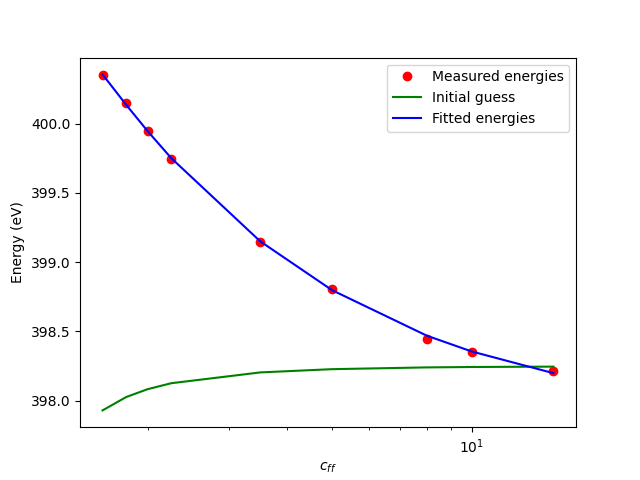
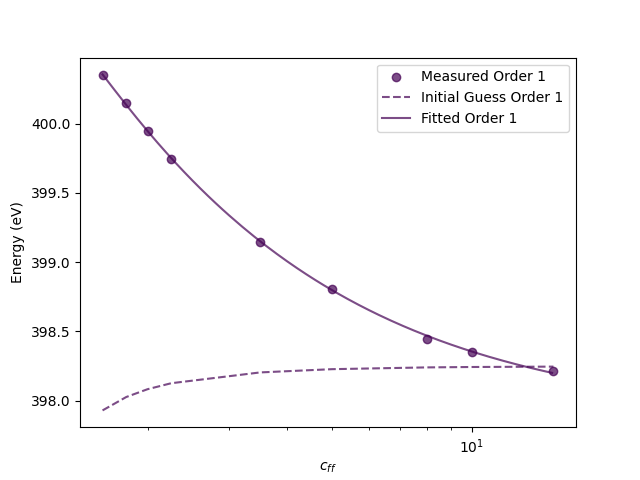
restructure and update

diff --git a/src/PGM_calibration.py b/src/PGM_calibration.py
@@ -4,7 +4,7 @@ import matplotlib.pyplot as plt
 from tabulate import tabulate
 
 class PGMCalibration:
-    def __init__(self, N, k):
+    def __init__(self, N):
         """
         Initialize the PGMCalibration class with given parameters.
 
@@ -13,7 +13,7 @@ class PGMCalibration:
             k (int): Order of diffraction
         """
         self.N = N * 1000            # lines/m
-        self.k = k
+        # self.k = k
         self.h = 4.135667696E-15     # eV*sec
         self.c = 299792458           # m/s 
         self.hc = self.h * self.c
@@ -35,7 +35,7 @@ class PGMCalibration:
         """
         self.initial_guess = {'DTheta': DTheta, 'DBeta': DBeta, 'E': E}
 
-    def grating_equation(self, theta, beta, dtheta=0, dbeta=0):
+    def grating_equation(self, theta, beta, k, dtheta=0, dbeta=0):
         """
         Calculate energy using the grating equation. Angles are grazing and in degrees
 
@@ -51,11 +51,11 @@ class PGMCalibration:
         """
         theta = np.deg2rad(90) - (theta + dtheta)
         beta = -(np.deg2rad(90) - (beta + dbeta))
-        wavelength = (2 * np.cos(theta) * np.sin(theta + beta)) / (self.N * self.k)
+        wavelength = (2 * np.cos(theta) * np.sin(theta + beta)) / (self.N * k)
         en = self.calc_energy(wavelength)
         return en
 
-    def calc_beta(self, wavelength, cff):
+    def calc_beta(self, wavelength, cff, order):
         """
         Calculate beta angle.
 
@@ -66,7 +66,7 @@ class PGMCalibration:
         Returns:
             float: Calculated beta angle.
         """
-        a = 2 * self.N * self.k * wavelength
+        a = 2 * self.N * order * wavelength
         b = cff**2 / (cff**2 - 1)
         beta = np.sqrt(a * b)
         return beta
@@ -126,7 +126,7 @@ class PGMCalibration:
         energy = self.hc / wavelength
         return energy
 
-    def shifted_energy(self, cff, dtheta, dbeta, true_energy):
+    def shifted_energy(self, cff, order, dtheta, dbeta, true_energy):
         """
         Calculate shifted energy.
 
@@ -140,13 +140,13 @@ class PGMCalibration:
             float: Shifted energy.
         """
         true_wavelength = self.calc_wavelength(true_energy)
-        beta = self.calc_beta(true_wavelength, cff)
+        beta = self.calc_beta(true_wavelength, cff, order)
         alpha = self.calc_alpha(beta, cff)
         theta = self.calc_theta(alpha, beta)
-        es = self.grating_equation(theta, beta, dtheta=dtheta, dbeta=dbeta)
+        es = self.grating_equation(theta, beta, order, dtheta=dtheta, dbeta=dbeta)
         return es
 
-    def residuals(self, params, measured_energies, cff_values):
+    def residuals(self, params, measured_energies, cff_values, orders):
         """
         Calculate residuals between measured and shifted energies.
 
@@ -162,11 +162,20 @@ class PGMCalibration:
         residuals = []
         for i, cff in enumerate(cff_values):
             measured_energy = measured_energies[i]
-            shifted_energy = self.shifted_energy(cff, DTheta, DBeta, E)
+            shifted_energy = self.shifted_energy(cff, orders[i], DTheta, DBeta, E)
             residuals.append(measured_energy - shifted_energy)
+            self.check_angles(measured_energy, shifted_energy, cff, orders[i])
+        print('\n\n')
         return residuals
+    
+    def check_angles(self, E,shifted_energy, cff,order):
+        true_wavelength = self.calc_wavelength(E)
+        beta = self.calc_beta(true_wavelength, cff, order)
+        alpha = self.calc_alpha(beta, cff)
+        theta = self.calc_theta(alpha, beta)
+        print(f'E={E}, w={true_wavelength}, cff={cff},  theta={90-np.rad2deg(theta)}, beta={90-np.rad2deg(beta)}, Ecal={shifted_energy}')
 
-    def fit_parameters(self, measured_energies, cff_values, delta_E=5):
+    def fit_parameters(self, measured_energies, cff_values, orders, delta_E=3):
         """
         Fit parameters using least squares optimization.
 
@@ -184,7 +193,7 @@ class PGMCalibration:
         lower_bounds = [-np.inf, -np.inf, self.initial_guess['E'] - delta_E]
         upper_bounds = [np.inf, np.inf, self.initial_guess['E'] + delta_E]
         
-        result = least_squares(self.residuals, initial_guess_list, args=(measured_energies, cff_values),
+        result = least_squares(self.residuals, initial_guess_list, args=(measured_energies, cff_values, orders),
                             bounds=(lower_bounds, upper_bounds))
         
         self.DTheta, self.DBeta, self.E_opt = result.x
@@ -217,31 +226,50 @@ class PGMCalibration:
         print("\nFit Results\n")
         print(tabulate(data, headers, tablefmt="pretty", colalign=("left", "right", 'right')))
 
-    def plot_fit(self, measured_energies, cff_values, DTheta=0, DBeta=0, E_opt=0, savepath=None, show=True):
+    def plot_fit(self, measured_energies, cff_values, orders, DTheta=0, DBeta=0, E_opt=0, savepath=None, show=True):
         """
         Plot the measured, initial guess, and fitted energies.
 
         Args:
             measured_energies (list): List of measured energies.
             cff_values (list): List of fixed focus constant values.
+            orders (list): List of diffraction orders.
             DTheta (float, optional): Delta theta for fit. Defaults to 0.
             DBeta (float, optional): Delta beta for fit. Defaults to 0.
             E_opt (float, optional): Optimized energy. Defaults to 0.
+            savepath (str, optional): Path to save the plot. Defaults to None.
+            show (bool, optional): Whether to display the plot. Defaults to True.
         """
-        # Calculate fitted energies
-        cff_plot = np.arange(cff_values[0], cff_values[-1], .1)
-        fitted_energies = self.shifted_energy(cff_plot, DTheta, DBeta, E_opt)      
-
-        print(f'{cff_plot.shape}, {fitted_energies.shape}')  
-        # Calculate initial guess energies
-        initial_guess_energies = self.shifted_energy(cff_values,
-                                                     self.initial_guess['DTheta'],
-                                                     self.initial_guess['DBeta'],
-                                                     self.initial_guess['E'])
+        unique_orders = np.unique(orders)
+        colors = plt.cm.viridis(np.linspace(0, 1, len(unique_orders)))
         
-        plt.plot(cff_values, measured_energies, 'ro', label='Measured energies')
-        plt.plot(cff_values, initial_guess_energies, 'g', label='Initial guess')
-        plt.plot(cff_plot, fitted_energies, 'b-', label='Fitted energies')
+        plt.figure()
+        
+        for idx, order in enumerate(unique_orders):
+            # Filter data for the current order
+            mask = (orders == order)
+            cff_order = cff_values[mask]
+            measured_order = measured_energies[mask]
+            
+            # Calculate fitted energies for the current order
+            cff_plot = np.arange(cff_order[0], cff_order[-1], .1)
+            fitted_energies = self.shifted_energy(cff_plot, 
+                                                np.full(cff_plot.shape, order), 
+                                                DTheta, 
+                                                DBeta, 
+                                                E_opt )       
+
+            # Calculate initial guess energies for the current order
+            initial_guess_energies = self.shifted_energy(cff_order,
+                                                        np.full(cff_order.shape, order),
+                                                        self.initial_guess['DTheta'],
+                                                        self.initial_guess['DBeta'],
+                                                        self.initial_guess['E']) 
+            
+            plt.scatter(cff_order, measured_order , color=colors[idx], label=f'Measured Order {order}', alpha=0.7)
+            plt.plot(cff_order, initial_guess_energies, '--', color=colors[idx], label=f'Initial Guess Order {order}', alpha=0.7)
+            plt.plot(cff_plot, fitted_energies, '-', color=colors[idx], label=f'Fitted Order {order}', alpha=0.7)
+        
         plt.xlabel('$c_{ff}$')
         plt.ylabel('Energy (eV)')
         plt.xscale('log')
@@ -250,3 +278,4 @@ class PGMCalibration:
             plt.savefig(savepath)
         if show:
             plt.show()
+

diff --git a/examples/example_PGMCalibration_UE112_2016.py b/examples/example_PGMCalibration_UE112_2016.py
@@ -1,0 +1,42 @@
+import os
+import numpy as np
+
+from PGM_calibration import PGMCalibration
+
+N = 1200  # Line density (grating grooves per mm)
+# k = 1  # Order of diffraction
+
+os.makedirs('Results/ExampleCalibration', exist_ok=True)
+
+# Example data
+# orders = np.array([           1,      1,     1,      2,      2,      2])
+# cff_values = np.array([       1.5,    3,     8,      1.5,    3,      8,])
+# measured_energies = np.array([92.819, 91.84, 91.416, 2*92.295, 2*91.641, 2*91.341 ])
+
+
+orders = np.array([           1,      1,     1])
+cff_values = np.array([       1.5,    3,     8])
+measured_energies = np.array([92.819, 91.84, 91.416])
+
+# orders = np.array([         2,      2,      2])
+# cff_values = np.array([      1.5,    3,      8,])
+# measured_energies = np.array([2*92.295, 2*91.641, 2*91.341 ])
+
+
+
+# Instantiate the calibration class
+c = PGMCalibration(N)
+
+# Set a reasonable initial guess manually
+c.set_initial_guess(DTheta=5e-4, DBeta=-1e-4, E=91.1)  # Example initial guess values
+
+# Perform fitting
+dtheta, dbeta, E_opt = c.fit_parameters(measured_energies, cff_values, orders)
+
+c.print_fit_results()
+# Plot the fitting results along with initial guess
+c.plot_fit(measured_energies, cff_values, orders,
+           DTheta=dtheta, DBeta=dbeta, E_opt=E_opt,
+           show=False, savepath='Results/UE112_2016/fit_results_ue112_2016.png')
+
+

diff --git a/examples/example_PGMCalibration.py b/examples/example_PGMCalibration.py
@@ -9,21 +9,22 @@ k = 1  # Order of diffraction
 os.makedirs('Results/ExampleCalibration', exist_ok=True)
 
 # Example data
-cff_values = np.array([1.6, 1.8, 2.0, 2.25, 3.5, 5.0, 8.0, 10.0, 15.0])
+cff_values = np.array([       1.6,   1.8,   2.0,   2.25,  3.5,   5.0,    8.0,   10.0,  15.0])
 measured_energies = np.array([398.3, 398.1, 397.9, 397.7, 397.1, 396.76, 396.4, 396.3, 396.17])
+orders = np.full(cff_values.shape[0], 1)
 
 # Instantiate the calibration class
-c = PGMCalibration(N, k)
+c = PGMCalibration(N)
 
 # Set a reasonable initial guess manually
-c.set_initial_guess(DTheta=0, DBeta=0, E=398)  # Example initial guess values
+c.set_initial_guess(DTheta=0, DBeta=0, E=401)  # Example initial guess values
 
 # Perform fitting
-dtheta, dbeta, E_opt = c.fit_parameters(measured_energies, cff_values)
+dtheta, dbeta, E_opt = c.fit_parameters(measured_energies, cff_values, orders, delta_E=0.1)
 
 c.print_fit_results()
 # Plot the fitting results along with initial guess
-c.plot_fit(measured_energies, cff_values,
+c.plot_fit(measured_energies, cff_values, orders,
            DTheta=dtheta, DBeta=dbeta, E_opt=E_opt,
            show=False, savepath='Results/ExampleCalibration/fit_results_paper_data.png')
 

diff --git a/examples/example_PGMCalibration_PO4_data.py b/examples/example_PGMCalibration_PO4_data.py
@@ -5,7 +5,6 @@ import os
 from PGM_calibration import PGMCalibration
 
 N = 1200  # Line density (grating grooves per mm)
-k = 1  # Order of diffraction
 
 os.makedirs('Results/ExampleCalibrationPO4', exist_ok=True)
 # Example data
@@ -13,19 +12,20 @@ df = pd.read_csv('Results/ExampleN2Fit/N2_fit_results.csv')
 
 cff_values = np.array(df['cff'])
 measured_energies = np.array(df['peak_energy'])
+orders = np.full(cff_values.shape[0], 1)
 
 # Instantiate the calibration class
-c = PGMCalibration(N, k)
+c = PGMCalibration(N)
 
 # Set a reasonable initial guess manually
 c.set_initial_guess(DTheta=0, DBeta=0, E=398)  # Example initial guess values
 
 # Perform fitting
-dtheta, dbeta, E_opt = c.fit_parameters(measured_energies, cff_values)
+dtheta, dbeta, E_opt = c.fit_parameters(measured_energies, cff_values, orders)
 
 c.print_fit_results()
 # Plot the fitting results along with initial guess
-c.plot_fit(measured_energies, cff_values,
+c.plot_fit(measured_energies, cff_values, orders,
            DTheta=dtheta, DBeta=dbeta, E_opt=E_opt,
            show=False, savepath='Results/ExampleCalibrationPO4/fit_results_PO4_data.png')
 

diff --git a/src/nitrogen_fit.py b/src/nitrogen_fit.py
@@ -13,7 +13,7 @@ from scipy.special import erf, erfc
 from scipy.special import gamma as gamfcn
 from scipy.special import wofz
 
-from nitrogen_plot import PlotNitrogenFit
+from .nitrogen_plot import PlotNitrogenFit
 
 class N2_fit:
     """

diff --git a/src/create_data.py b/src/create_data.py
@@ -1,5 +1,4 @@
 import pandas as pd
-import numpy as np
 
 def apply_energy_shifts(input_file, cff, energy_shift):
     """

diff --git a/src/__init__.py b/src/__init__.py
@@ -1,0 +1,1 @@
+from .PGM_calibration import PGMCalibration

diff --git a/ToDo.md b/ToDo.md
@@ -1,1 +1,3 @@
 At the moment I am not using, to calculate alpha and beta and theta, the formulas given in the paper. I already had some others implemented in python, but since I have an energy shift I would like to compare them.
+
+I have to check how to do the fit including the orders. what I understood is that I either do a multivariate fit, or i divide the energy by the order if I want to do a linera fit
